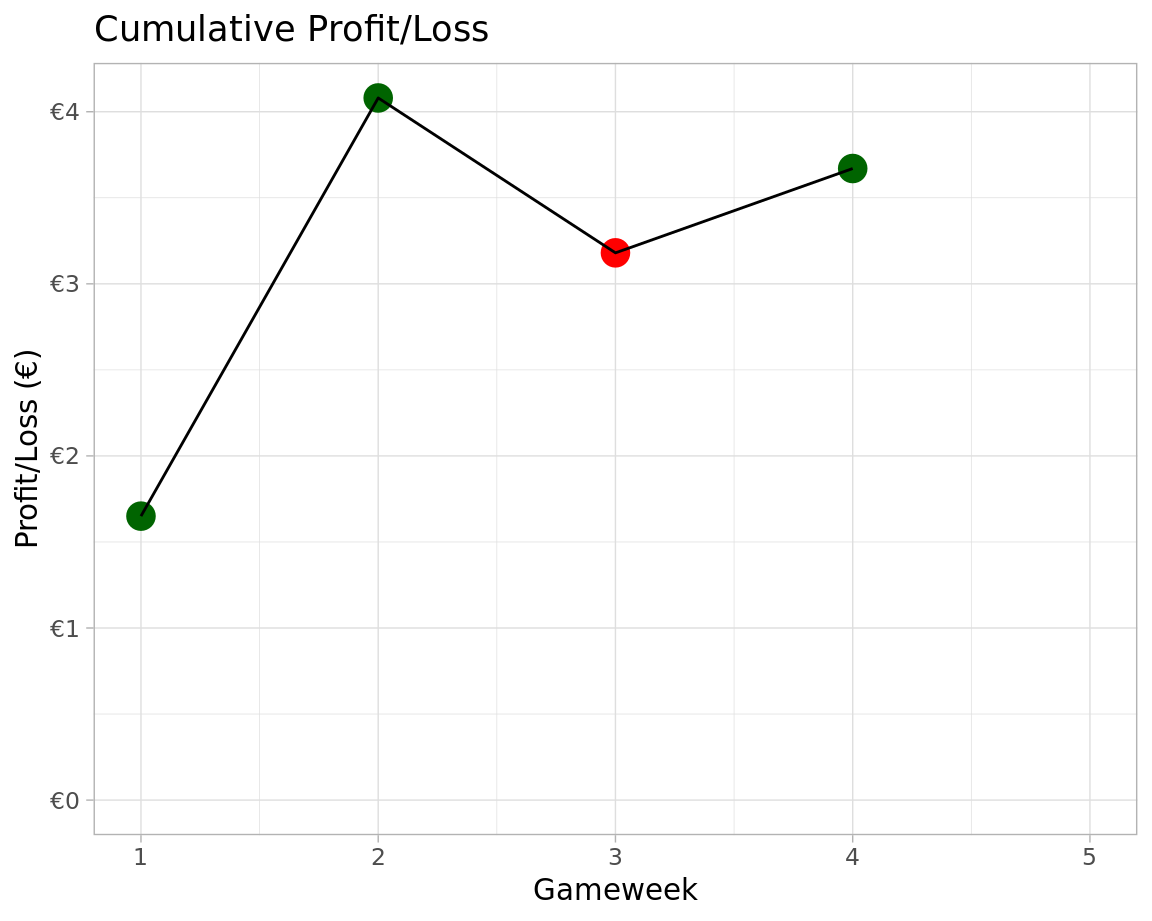
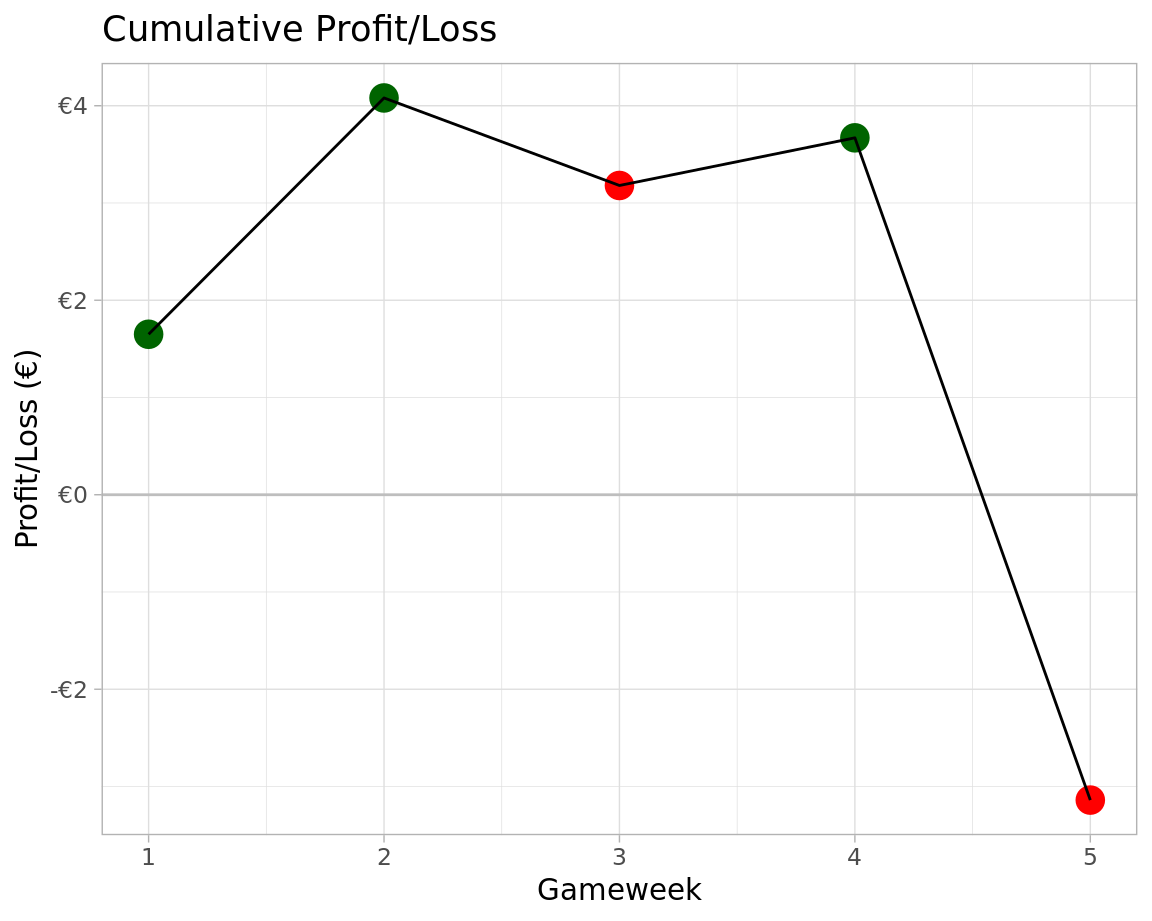
daily update

diff --git a/docs/index.html b/docs/index.html
@@ -2712,7 +2712,7 @@ window.FlexDashboardComponents.push({
 <div class="knitr-options" data-fig-width="576" data-fig-height="460">
 
 </div>
-<span class="value-output" data-icon="fas fa-minus" data-color="red">€46.00</span>
+<span class="value-output" data-icon="fas fa-minus" data-color="red">€48.00</span>
 </div>
 <div id="return" class="section level3">
 <h3>Return</h3>
@@ -2726,14 +2726,14 @@ window.FlexDashboardComponents.push({
 <div class="knitr-options" data-fig-width="576" data-fig-height="460">
 
 </div>
-<span class="value-output" data-icon="fas fa-money-bill-wave" data-color="red">€-1.14</span>
+<span class="value-output" data-icon="fas fa-money-bill-wave" data-color="red">€-3.14</span>
 </div>
 <div id="roi" class="section level3">
 <h3>ROI</h3>
 <div class="knitr-options" data-fig-width="576" data-fig-height="460">
 
 </div>
-<span class="value-output" data-icon="fas fa-percent" data-color="red">-2.48%</span>
+<span class="value-output" data-icon="fas fa-percent" data-color="red">-6.54%</span>
 </div>
 </div>
 <div id="row-1" class="section level2">
@@ -2748,7 +2748,7 @@ window.FlexDashboardComponents.push({
   font-family: -apple-system, BlinkMacSystemFont, 'Segoe UI', Roboto, Oxygen, Ubuntu, Cantarell, 'Helvetica Neue', 'Fira Sans', 'Droid Sans', Arial, sans-serif;
 }
 
-#fzyvexjqqn .gt_table {
+#smfpfuzcsr .gt_table {
   display: table;
   border-collapse: collapse;
   margin-left: auto;
@@ -2773,7 +2773,7 @@ window.FlexDashboardComponents.push({
   border-left-color: #D3D3D3;
 }
 
-#fzyvexjqqn .gt_heading {
+#smfpfuzcsr .gt_heading {
   background-color: #FFFFFF;
   text-align: center;
   border-bottom-color: #FFFFFF;
@@ -2785,7 +2785,7 @@ window.FlexDashboardComponents.push({
   border-right-color: #D3D3D3;
 }
 
-#fzyvexjqqn .gt_title {
+#smfpfuzcsr .gt_title {
   color: #333333;
   font-size: 125%;
   font-weight: initial;
@@ -2795,7 +2795,7 @@ window.FlexDashboardComponents.push({
   border-bottom-width: 0;
 }
 
-#fzyvexjqqn .gt_subtitle {
+#smfpfuzcsr .gt_subtitle {
   color: #333333;
   font-size: 85%;
   font-weight: initial;
@@ -2805,13 +2805,13 @@ window.FlexDashboardComponents.push({
   border-top-width: 0;
 }
 
-#fzyvexjqqn .gt_bottom_border {
+#smfpfuzcsr .gt_bottom_border {
   border-bottom-style: solid;
   border-bottom-width: 2px;
   border-bottom-color: #D3D3D3;
 }
 
-#fzyvexjqqn .gt_col_headings {
+#smfpfuzcsr .gt_col_headings {
   border-top-style: solid;
   border-top-width: 2px;
   border-top-color: #D3D3D3;
@@ -2826,7 +2826,7 @@ window.FlexDashboardComponents.push({
   border-right-color: #D3D3D3;
 }
 
-#fzyvexjqqn .gt_col_heading {
+#smfpfuzcsr .gt_col_heading {
   color: #333333;
   background-color: #FFFFFF;
   font-size: 100%;
@@ -2846,7 +2846,7 @@ window.FlexDashboardComponents.push({
   overflow-x: hidden;
 }
 
-#fzyvexjqqn .gt_column_spanner_outer {
+#smfpfuzcsr .gt_column_spanner_outer {
   color: #333333;
   background-color: #FFFFFF;
   font-size: 100%;
@@ -2858,15 +2858,15 @@ window.FlexDashboardComponents.push({
   padding-right: 4px;
 }
 
-#fzyvexjqqn .gt_column_spanner_outer:first-child {
+#smfpfuzcsr .gt_column_spanner_outer:first-child {
   padding-left: 0;
 }
 
-#fzyvexjqqn .gt_column_spanner_outer:last-child {
+#smfpfuzcsr .gt_column_spanner_outer:last-child {
   padding-right: 0;
 }
 
-#fzyvexjqqn .gt_column_spanner {
+#smfpfuzcsr .gt_column_spanner {
   border-bottom-style: solid;
   border-bottom-width: 2px;
   border-bottom-color: #D3D3D3;
@@ -2878,7 +2878,7 @@ window.FlexDashboardComponents.push({
   width: 100%;
 }
 
-#fzyvexjqqn .gt_group_heading {
+#smfpfuzcsr .gt_group_heading {
   padding: 8px;
   color: #333333;
   background-color: #FFFFFF;
@@ -2900,7 +2900,7 @@ window.FlexDashboardComponents.push({
   vertical-align: middle;
 }
 
-#fzyvexjqqn .gt_empty_group_heading {
+#smfpfuzcsr .gt_empty_group_heading {
   padding: 0.5px;
   color: #333333;
   background-color: #FFFFFF;
@@ -2915,15 +2915,15 @@ window.FlexDashboardComponents.push({
   vertical-align: middle;
 }
 
-#fzyvexjqqn .gt_from_md > :first-child {
+#smfpfuzcsr .gt_from_md > :first-child {
   margin-top: 0;
 }
 
-#fzyvexjqqn .gt_from_md > :last-child {
+#smfpfuzcsr .gt_from_md > :last-child {
   margin-bottom: 0;
 }
 
-#fzyvexjqqn .gt_row {
+#smfpfuzcsr .gt_row {
   padding-top: 8px;
   padding-bottom: 8px;
   padding-left: 5px;
@@ -2942,7 +2942,7 @@ window.FlexDashboardComponents.push({
   overflow-x: hidden;
 }
 
-#fzyvexjqqn .gt_stub {
+#smfpfuzcsr .gt_stub {
   color: #333333;
   background-color: #FFFFFF;
   font-size: 100%;
@@ -2954,7 +2954,7 @@ window.FlexDashboardComponents.push({
   padding-left: 12px;
 }
 
-#fzyvexjqqn .gt_summary_row {
+#smfpfuzcsr .gt_summary_row {
   color: #333333;
   background-color: #FFFFFF;
   text-transform: inherit;
@@ -2964,7 +2964,7 @@ window.FlexDashboardComponents.push({
   padding-right: 5px;
 }
 
-#fzyvexjqqn .gt_first_summary_row {
+#smfpfuzcsr .gt_first_summary_row {
   padding-top: 8px;
   padding-bottom: 8px;
   padding-left: 5px;
@@ -2974,7 +2974,7 @@ window.FlexDashboardComponents.push({
   border-top-color: #D3D3D3;
 }
 
-#fzyvexjqqn .gt_grand_summary_row {
+#smfpfuzcsr .gt_grand_summary_row {
   color: #333333;
   background-color: #FFFFFF;
   text-transform: inherit;
@@ -2984,7 +2984,7 @@ window.FlexDashboardComponents.push({
   padding-right: 5px;
 }
 
-#fzyvexjqqn .gt_first_grand_summary_row {
+#smfpfuzcsr .gt_first_grand_summary_row {
   padding-top: 8px;
   padding-bottom: 8px;
   padding-left: 5px;
@@ -2994,11 +2994,11 @@ window.FlexDashboardComponents.push({
   border-top-color: #D3D3D3;
 }
 
-#fzyvexjqqn .gt_striped {
+#smfpfuzcsr .gt_striped {
   background-color: rgba(128, 128, 128, 0.05);
 }
 
-#fzyvexjqqn .gt_table_body {
+#smfpfuzcsr .gt_table_body {
   border-top-style: solid;
   border-top-width: 2px;
   border-top-color: #D3D3D3;
@@ -3007,7 +3007,7 @@ window.FlexDashboardComponents.push({
   border-bottom-color: #D3D3D3;
 }
 
-#fzyvexjqqn .gt_footnotes {
+#smfpfuzcsr .gt_footnotes {
   color: #333333;
   background-color: #FFFFFF;
   border-bottom-style: none;
@@ -3021,13 +3021,13 @@ window.FlexDashboardComponents.push({
   border-right-color: #D3D3D3;
 }
 
-#fzyvexjqqn .gt_footnote {
+#smfpfuzcsr .gt_footnote {
   margin: 0px;
   font-size: 90%;
   padding: 4px;
 }
 
-#fzyvexjqqn .gt_sourcenotes {
+#smfpfuzcsr .gt_sourcenotes {
   color: #333333;
   background-color: #FFFFFF;
   border-bottom-style: none;
@@ -3041,46 +3041,46 @@ window.FlexDashboardComponents.push({
   border-right-color: #D3D3D3;
 }
 
-#fzyvexjqqn .gt_sourcenote {
+#smfpfuzcsr .gt_sourcenote {
   font-size: 10px;
   padding: 4px;
 }
 
-#fzyvexjqqn .gt_left {
+#smfpfuzcsr .gt_left {
   text-align: left;
 }
 
-#fzyvexjqqn .gt_center {
+#smfpfuzcsr .gt_center {
   text-align: center;
 }
 
-#fzyvexjqqn .gt_right {
+#smfpfuzcsr .gt_right {
   text-align: right;
   font-variant-numeric: tabular-nums;
 }
 
-#fzyvexjqqn .gt_font_normal {
+#smfpfuzcsr .gt_font_normal {
   font-weight: normal;
 }
 
-#fzyvexjqqn .gt_font_bold {
+#smfpfuzcsr .gt_font_bold {
   font-weight: bold;
 }
 
-#fzyvexjqqn .gt_font_italic {
+#smfpfuzcsr .gt_font_italic {
   font-style: italic;
 }
 
-#fzyvexjqqn .gt_super {
+#smfpfuzcsr .gt_super {
   font-size: 65%;
 }
 
-#fzyvexjqqn .gt_footnote_marks {
+#smfpfuzcsr .gt_footnote_marks {
   font-style: italic;
   font-size: 65%;
 }
 </style>
-<div id="fzyvexjqqn" style="overflow-x:auto;overflow-y:auto;width:auto;height:auto;"><table class="gt_table">
+<div id="smfpfuzcsr" style="overflow-x:auto;overflow-y:auto;width:auto;height:auto;"><table class="gt_table">
   <thead class="gt_header">
     <tr>
       <th colspan="7" class="gt_heading gt_title gt_font_normal" style>Predictions</th>
@@ -3110,9 +3110,9 @@ window.FlexDashboardComponents.push({
       <td class="gt_row gt_left">2020-10-23</td>
       <td class="gt_row gt_left">Aston Villa</td>
       <td class="gt_row gt_left">Leeds</td>
-      <td class="gt_row gt_center" style="background-color: #6EF664; color: #000000;">48.32&percnt;</td>
-      <td class="gt_row gt_center" style="background-color: #B1D77B; color: #000000;">28.43&percnt;</td>
-      <td class="gt_row gt_center" style="background-color: #CABF65; color: #000000;">23.25&percnt;</td>
+      <td class="gt_row gt_center" style="background-color: #6DF663; color: #000000;">48.86&percnt;</td>
+      <td class="gt_row gt_center" style="background-color: #BDCD72; color: #000000;">26.23&percnt;</td>
+      <td class="gt_row gt_center" style="background-color: #C3C76C; color: #000000;">24.90&percnt;</td>
       <td class="gt_row gt_center">Home</td>
     </tr>
     <tr>
@@ -3173,33 +3173,33 @@ window.FlexDashboardComponents.push({
       <td class="gt_row gt_left">2020-10-25</td>
       <td class="gt_row gt_left">Wolves</td>
       <td class="gt_row gt_left">Newcastle</td>
-      <td class="gt_row gt_center" style="background-color: #4AFB3F; color: #000000;">58.72&percnt;</td>
-      <td class="gt_row gt_center" style="background-color: #C2C76D; color: #000000;">25.04&percnt;</td>
-      <td class="gt_row gt_center" style="background-color: #E19B49; color: #000000;">16.25&percnt;</td>
+      <td class="gt_row gt_center" style="background-color: #44FC39; color: #000000;">59.97&percnt;</td>
+      <td class="gt_row gt_center" style="background-color: #C8C168; color: #000000;">23.79&percnt;</td>
+      <td class="gt_row gt_center" style="background-color: #E19B49; color: #000000;">16.24&percnt;</td>
       <td class="gt_row gt_center">Home</td>
     </tr>
     <tr>
       <td class="gt_row gt_left">2020-10-27</td>
       <td class="gt_row gt_left">Brighton</td>
       <td class="gt_row gt_left">West Brom</td>
-      <td class="gt_row gt_center" style="background-color: #43FC38; color: #000000;">60.13&percnt;</td>
-      <td class="gt_row gt_center" style="background-color: #CBBD64; color: #000000;">22.85&percnt;</td>
-      <td class="gt_row gt_center" style="background-color: #DF9F4C; color: #000000;">17.02&percnt;</td>
+      <td class="gt_row gt_center" style="background-color: #43FC37; color: #000000;">60.24&percnt;</td>
+      <td class="gt_row gt_center" style="background-color: #D1B55D; color: #000000;">21.30&percnt;</td>
+      <td class="gt_row gt_center" style="background-color: #DBA752; color: #000000;">18.46&percnt;</td>
       <td class="gt_row gt_center">Home</td>
     </tr>
     <tr>
       <td class="gt_row gt_left">2020-10-27</td>
       <td class="gt_row gt_left">Burnley</td>
       <td class="gt_row gt_left">Tottenham</td>
-      <td class="gt_row gt_center" style="background-color: #9EE688; color: #000000;">31.52&percnt;</td>
-      <td class="gt_row gt_center" style="background-color: #B5D478; color: #000000;">27.79&percnt;</td>
-      <td class="gt_row gt_center" style="background-color: #81F27B; color: #000000;">40.69&percnt;</td>
+      <td class="gt_row gt_center" style="background-color: #ADDB7E; color: #000000;">29.19&percnt;</td>
+      <td class="gt_row gt_center" style="background-color: #BFCB70; color: #000000;">25.85&percnt;</td>
+      <td class="gt_row gt_center" style="background-color: #77F46F; color: #000000;">44.96&percnt;</td>
       <td class="gt_row gt_center">Away</td>
     </tr>
   </tbody>
   <tfoot class="gt_sourcenotes">
     <tr>
-      <td class="gt_sourcenote" colspan="7">Date ran: 2020-10-21</td>
+      <td class="gt_sourcenote" colspan="7">Date ran: 2020-10-22</td>
     </tr>
   </tfoot>
   
@@ -3241,8 +3241,8 @@ window.FlexDashboardComponents.push({
 <div class="knitr-options" data-fig-width="576" data-fig-height="460">
 
 </div>
-<div id="htmlwidget-f6967d69d58f25463f52" style="width:100%;height:auto;" class="datatables html-widget"></div>
-<script type="application/json" data-for="htmlwidget-f6967d69d58f25463f52">{"x":{"filter":"none","fillContainer":true,"data":[["1","2","3","4","5","6","7","8","9","10","11","12","13","14","15","16","17","18","19","20","21","22","23","24","25","26","27","28","29","30","31","32","33","34","35","36","37","38","39","40","41","42","43","44","45","46"],[1,1,1,1,1,1,1,1,2,2,2,2,2,2,2,2,2,2,3,3,3,3,3,3,3,3,3,3,4,4,4,4,4,4,4,4,4,4,5,5,5,5,5,5,5,5],["2020-09-12","2020-09-12","2020-09-12","2020-09-12","2020-09-13","2020-09-13","2020-09-14","2020-09-14","2020-09-19","2020-09-19","2020-09-19","2020-09-19","2020-09-20","2020-09-20","2020-09-20","2020-09-20","2020-09-21","2020-09-21","2020-09-26","2020-09-26","2020-09-26","2020-09-26","2020-09-27","2020-09-27","2020-09-27","2020-09-27","2020-09-28","2020-09-28","2020-10-03","2020-10-03","2020-10-03","2020-10-03","2020-10-04","2020-10-04","2020-10-04","2020-10-04","2020-10-04","2020-10-04","2020-10-17","2020-10-17","2020-10-17","2020-10-17","2020-10-18","2020-10-18","2020-10-18","2020-10-18"],["12:30:00","15:00:00","17:30:00","20:00:00","14:00:00","16:30:00","20:15:00","18:00:00","12:30:00","15:00:00","17:30:00","20:00:00","12:00:00","14:00:00","16:30:00","19:00:00","18:00:00","20:15:00","12:30:00","15:00:00","17:30:00","20:00:00","12:00:00","14:00:00","16:30:00","19:00:00","17:45:00","20:00:00","12:30:00","15:00:00","17:30:00","20:00:00","12:00:00","12:00:00","14:00:00","14:00:00","16:30:00","19:15:00","12:30:00","15:00:00","17:30:00","20:00:00","12:00:00","14:00:00","16:30:00","19:15:00"],["Fulham","Crystal Palace","Liverpool","West Ham","West Brom","Tottenham","Brighton","Sheffield United","Everton","Leeds","Man United","Arsenal","Southampton","Newcastle","Chelsea","Leicester","Aston Villa","Wolves","Brighton","Crystal Palace","West Brom","Burnley","Sheffield United","Tottenham","Man City","West Ham","Fulham","Liverpool","Chelsea","Everton","Leeds","Newcastle","Leicester","Southampton","Arsenal","Wolves","Man United","Aston Villa","Everton","Chelsea","Man City","Newcastle","Sheffield United","Crystal Palace","Tottenham","Leicester"],["Arsenal","Southampton","Leeds","Newcastle","Leicester","Everton","Chelsea","Wolves","West Brom","Fulham","Crystal Palace","West Ham","Tottenham","Brighton","Liverpool","Burnley","Sheffield United","Man City","Man United","Everton","Chelsea","Southampton","Leeds","Newcastle","Leicester","Wolves","Aston Villa","Arsenal","Crystal Palace","Brighton","Man City","Burnley","West Ham","West Brom","Sheffield United","Fulham","Tottenham","Liverpool","Liverpool","Southampton","Arsenal","Man United","Fulham","Brighton","West Ham","Aston Villa"],[0,1,4,0,0,0,1,0,5,4,1,2,2,0,0,4,1,1,2,1,3,0,0,1,2,4,0,3,4,4,1,3,0,2,2,1,1,7,2,3,1,1,1,1,3,0],[3,0,3,2,3,1,3,2,2,3,3,1,5,3,2,2,0,3,3,2,3,1,1,1,5,0,3,1,0,2,1,1,3,0,1,0,6,2,2,3,0,4,1,1,3,1],[5.94,3.18,1.3,2.15,3.87,1.9,5.12,3.36,1.54,1.64,1.32,1.53,3.1,2.68,3.15,1.63,2.71,6.11,4.83,3.69,8.24,3.3,2.72,1.47,1.29,3.74,2.92,1.49,1.43,1.76,7.45,2.47,1.68,1.76,1.56,1.51,1.92,9.35,3.91,1.53,1.49,4.78,2.11,2.68,1.62,1.89],[4.34,3.22,5.96,3.48,3.57,3.55,4.13,3,4.25,3.97,5.57,4.51,3.35,3.15,3.72,3.98,3.19,4.35,3.75,3.32,5.02,3.25,3.37,4.5,5.93,3.38,3.26,4.68,4.77,3.73,5.34,3.15,4.12,3.86,4.09,4.07,3.71,5.41,4.08,4.56,4.85,4.08,3.32,3.25,4.19,3.82],[1.55,2.39,9.68,3.42,1.97,4.2,1.65,2.41,6.3,5.5,9.56,5.91,2.37,2.82,2.18,5.64,2.75,1.54,1.75,2.12,1.38,2.31,2.63,6.95,9.68,2.07,2.52,6.3,7.39,4.79,1.38,3.08,4.86,4.58,6.25,7.19,3.97,1.33,1.85,5.92,6.09,1.7,3.74,2.76,5.34,3.97],["L","W","W","L","L","L","L","L","W","W","L","W","L","L","L","W","W","L","L","L","D","L","L","D","L","W","L","W","W","W","D","W","L","W","W","W","L","W","D","D","W","L","D","D","D","L"],["2020-09-10","2020-09-10","2020-09-10","2020-09-10","2020-09-10","2020-09-10","2020-09-10","2020-09-10","2020-09-15","2020-09-15","2020-09-15","2020-09-15","2020-09-15","2020-09-15","2020-09-15","2020-09-15","2020-09-15","2020-09-15","2020-09-23","2020-09-23","2020-09-23","2020-09-23","2020-09-23","2020-09-23","2020-09-23","2020-09-23","2020-09-23","2020-09-23","2020-10-03","2020-10-03","2020-10-03","2020-10-03","2020-10-04","2020-10-04","2020-10-04","2020-10-04","2020-10-04","2020-10-04","2020-10-17","2020-10-17","2020-10-17","2020-10-17","2020-10-18","2020-10-18","2020-10-18","2020-10-18"],[0.326865246,0.377025944,0.586321925,0.440676095,0.335558467,0.484457295,0.321832102,0.387335841,0.56834799,0.45600293,0.469761013,0.537173849,0.317688641,0.392894588,0.265682975,0.496671014,0.330105667,0.332535727,0.326952658084199,0.311463268514612,0.273627527560801,0.355294105837369,0.437443071806396,0.532160132995659,0.479707327247348,0.351332568818335,0.37906296982321,0.611196207007876,0.526000796867655,0.511462114989317,0.262901758671308,0.38329422931363,0.560547892703463,0.601019327700624,0.532563494288092,0.506616878016134,0.363046493590689,0.183434597838152,0.260452006883681,0.557784632624761,0.579424617122047,0.351710091428944,0.486428010392038,0.344577683259686,0.562602015704454,0.482400879719672],[0.299196686,0.327950858,0.259043543,0.303935957,0.267852609,0.318702975,0.274286369,0.299663726,0.245813094,0.281998402,0.331701955,0.265537696,0.281726611,0.346720128,0.285105118,0.314923119,0.345855148,0.275327728,0.271298866386896,0.331408992481159,0.239257758594954,0.330036716676724,0.292733034275733,0.272504210718762,0.31022248933418,0.337010421385256,0.291976118539781,0.199572339009251,0.303677581480901,0.265504098008588,0.217291709554888,0.289329197505792,0.253457991875061,0.235980709551396,0.280890541381853,0.268711784665371,0.321127429313033,0.239101794460736,0.261379945948762,0.247525178889113,0.23954235870574,0.2760337078497,0.281907597161637,0.309843808772541,0.258569793875715,0.296178095649272],[0.373938069,0.295023198,0.154634532,0.255387948,0.396588924,0.196839729,0.403881529,0.313000432,0.185838917,0.261998667,0.198537032,0.197288454,0.400584748,0.260385284,0.449211907,0.188405867,0.324039185,0.392136545,0.401748475528905,0.35712773900423,0.487114713844245,0.314669177485908,0.269823893917872,0.195335656285579,0.210070183418473,0.311657009796409,0.328960911637009,0.189231453982873,0.170321621651445,0.223033787002095,0.519806531773804,0.327376573180578,0.185994115421477,0.16299996274798,0.186545964330056,0.224671337318496,0.315826077096278,0.577463607701113,0.478168047167557,0.194690188486126,0.181033024172213,0.372256200721355,0.231664392446325,0.345578507967775,0.178828190419831,0.221421024631056],["L","W","W","W","L","W","L","W","W","W","W","W","L","W","L","W","D","L","L","L","L","W","W","W","W","W","W","W","W","W","L","W","W","W","W","W","W","L","L","W","W","L","W","L","W","W"],[true,true,true,false,true,false,true,false,true,true,false,true,true,false,true,true,false,true,true,true,false,false,false,false,false,true,false,true,true,true,false,true,false,true,true,true,false,false,false,false,true,true,false,false,false,false],[1.55,3.18,1.3,2.15,1.97,1.9,1.65,3.36,1.54,1.64,1.32,1.53,2.37,2.68,2.18,1.63,3.19,1.54,1.75,2.12,1.38,3.3,2.72,1.47,1.29,3.74,2.92,1.49,1.43,1.76,1.38,2.47,1.68,1.76,1.56,1.51,1.92,1.33,1.85,1.53,1.49,1.7,2.11,2.76,1.62,1.89],[1,1,1,1,1,1,1,1,1,1,1,1,1,1,1,1,1,1,1,1,1,1,1,1,1,1,1,1,1,1,1,1,1,1,1,1,1,1,1,1,1,1,1,1,1,1],[1.55,3.18,1.3,0,1.97,0,1.65,0,1.54,1.64,0,1.53,2.37,0,2.18,1.63,0,1.54,1.75,2.12,0,0,0,0,0,3.74,0,1.49,1.43,1.76,0,2.47,0,1.76,1.56,1.51,0,0,0,0,1.49,1.7,0,0,0,0]],"container":"<table class=\"display fill-container\">\n  <thead>\n    <tr>\n      <th> <\/th>\n      <th>gameweek<\/th>\n      <th>date<\/th>\n      <th>time<\/th>\n      <th>home_team<\/th>\n      <th>away_team<\/th>\n      <th>fthg<\/th>\n      <th>ftag<\/th>\n      <th>avg_h<\/th>\n      <th>avg_d<\/th>\n      <th>avg_a<\/th>\n      <th>result<\/th>\n      <th>date_ran<\/th>\n      <th>pred_w<\/th>\n      <th>pred_d<\/th>\n      <th>pred_l<\/th>\n      <th>pred_class<\/th>\n      <th>accurate<\/th>\n      <th>selected_odds<\/th>\n      <th>outlay<\/th>\n      <th>return<\/th>\n    <\/tr>\n  <\/thead>\n<\/table>","options":{"columnDefs":[{"className":"dt-right","targets":[1,6,7,8,9,10,13,14,15,18,19,20]},{"orderable":false,"targets":0}],"order":[],"autoWidth":false,"orderClasses":false}},"evals":[],"jsHooks":[]}</script>
+<div id="htmlwidget-0cac629a1a975f6cec29" style="width:100%;height:auto;" class="datatables html-widget"></div>
+<script type="application/json" data-for="htmlwidget-0cac629a1a975f6cec29">{"x":{"filter":"none","fillContainer":true,"data":[["1","2","3","4","5","6","7","8","9","10","11","12","13","14","15","16","17","18","19","20","21","22","23","24","25","26","27","28","29","30","31","32","33","34","35","36","37","38","39","40","41","42","43","44","45","46","47","48"],[1,1,1,1,1,1,1,1,2,2,2,2,2,2,2,2,2,2,3,3,3,3,3,3,3,3,3,3,4,4,4,4,4,4,4,4,4,4,5,5,5,5,5,5,5,5,5,5],["2020-09-12","2020-09-12","2020-09-12","2020-09-12","2020-09-13","2020-09-13","2020-09-14","2020-09-14","2020-09-19","2020-09-19","2020-09-19","2020-09-19","2020-09-20","2020-09-20","2020-09-20","2020-09-20","2020-09-21","2020-09-21","2020-09-26","2020-09-26","2020-09-26","2020-09-26","2020-09-27","2020-09-27","2020-09-27","2020-09-27","2020-09-28","2020-09-28","2020-10-03","2020-10-03","2020-10-03","2020-10-03","2020-10-04","2020-10-04","2020-10-04","2020-10-04","2020-10-04","2020-10-04","2020-10-17","2020-10-17","2020-10-17","2020-10-17","2020-10-18","2020-10-18","2020-10-18","2020-10-18","2020-10-19","2020-10-19"],["12:30:00","15:00:00","17:30:00","20:00:00","14:00:00","16:30:00","20:15:00","18:00:00","12:30:00","15:00:00","17:30:00","20:00:00","12:00:00","14:00:00","16:30:00","19:00:00","18:00:00","20:15:00","12:30:00","15:00:00","17:30:00","20:00:00","12:00:00","14:00:00","16:30:00","19:00:00","17:45:00","20:00:00","12:30:00","15:00:00","17:30:00","20:00:00","12:00:00","12:00:00","14:00:00","14:00:00","16:30:00","19:15:00","12:30:00","15:00:00","17:30:00","20:00:00","12:00:00","14:00:00","16:30:00","19:15:00","17:30:00","20:00:00"],["Fulham","Crystal Palace","Liverpool","West Ham","West Brom","Tottenham","Brighton","Sheffield United","Everton","Leeds","Man United","Arsenal","Southampton","Newcastle","Chelsea","Leicester","Aston Villa","Wolves","Brighton","Crystal Palace","West Brom","Burnley","Sheffield United","Tottenham","Man City","West Ham","Fulham","Liverpool","Chelsea","Everton","Leeds","Newcastle","Leicester","Southampton","Arsenal","Wolves","Man United","Aston Villa","Everton","Chelsea","Man City","Newcastle","Sheffield United","Crystal Palace","Tottenham","Leicester","West Brom","Leeds"],["Arsenal","Southampton","Leeds","Newcastle","Leicester","Everton","Chelsea","Wolves","West Brom","Fulham","Crystal Palace","West Ham","Tottenham","Brighton","Liverpool","Burnley","Sheffield United","Man City","Man United","Everton","Chelsea","Southampton","Leeds","Newcastle","Leicester","Wolves","Aston Villa","Arsenal","Crystal Palace","Brighton","Man City","Burnley","West Ham","West Brom","Sheffield United","Fulham","Tottenham","Liverpool","Liverpool","Southampton","Arsenal","Man United","Fulham","Brighton","West Ham","Aston Villa","Burnley","Wolves"],[0,1,4,0,0,0,1,0,5,4,1,2,2,0,0,4,1,1,2,1,3,0,0,1,2,4,0,3,4,4,1,3,0,2,2,1,1,7,2,3,1,1,1,1,3,0,0,0],[3,0,3,2,3,1,3,2,2,3,3,1,5,3,2,2,0,3,3,2,3,1,1,1,5,0,3,1,0,2,1,1,3,0,1,0,6,2,2,3,0,4,1,1,3,1,0,1],[5.94,3.18,1.3,2.15,3.87,1.9,5.12,3.36,1.54,1.64,1.32,1.53,3.1,2.68,3.15,1.63,2.71,6.11,4.83,3.69,8.24,3.3,2.72,1.47,1.29,3.74,2.92,1.49,1.43,1.76,7.45,2.47,1.68,1.76,1.56,1.51,1.92,9.35,3.91,1.53,1.49,4.78,2.11,2.68,1.62,1.89,2.49,2.5],[4.34,3.22,5.96,3.48,3.57,3.55,4.13,3,4.25,3.97,5.57,4.51,3.35,3.15,3.72,3.98,3.19,4.35,3.75,3.32,5.02,3.25,3.37,4.5,5.93,3.38,3.26,4.68,4.77,3.73,5.34,3.15,4.12,3.86,4.09,4.07,3.71,5.41,4.08,4.56,4.85,4.08,3.32,3.25,4.19,3.82,3.3,3.26],[1.55,2.39,9.68,3.42,1.97,4.2,1.65,2.41,6.3,5.5,9.56,5.91,2.37,2.82,2.18,5.64,2.75,1.54,1.75,2.12,1.38,2.31,2.63,6.95,9.68,2.07,2.52,6.3,7.39,4.79,1.38,3.08,4.86,4.58,6.25,7.19,3.97,1.33,1.85,5.92,6.09,1.7,3.74,2.76,5.34,3.97,2.97,2.97],["L","W","W","L","L","L","L","L","W","W","L","W","L","L","L","W","W","L","L","L","D","L","L","D","L","W","L","W","W","W","D","W","L","W","W","W","L","W","D","D","W","L","D","D","D","L","D","L"],["2020-09-10","2020-09-10","2020-09-10","2020-09-10","2020-09-10","2020-09-10","2020-09-10","2020-09-10","2020-09-15","2020-09-15","2020-09-15","2020-09-15","2020-09-15","2020-09-15","2020-09-15","2020-09-15","2020-09-15","2020-09-15","2020-09-23","2020-09-23","2020-09-23","2020-09-23","2020-09-23","2020-09-23","2020-09-23","2020-09-23","2020-09-23","2020-09-23","2020-10-03","2020-10-03","2020-10-03","2020-10-03","2020-10-04","2020-10-04","2020-10-04","2020-10-04","2020-10-04","2020-10-04","2020-10-17","2020-10-17","2020-10-17","2020-10-17","2020-10-18","2020-10-18","2020-10-18","2020-10-18","2020-10-19","2020-10-19"],[0.326865246,0.377025944,0.586321925,0.440676095,0.335558467,0.484457295,0.321832102,0.387335841,0.56834799,0.45600293,0.469761013,0.537173849,0.317688641,0.392894588,0.265682975,0.496671014,0.330105667,0.332535727,0.326952658084199,0.311463268514612,0.273627527560801,0.355294105837369,0.437443071806396,0.532160132995659,0.479707327247348,0.351332568818335,0.37906296982321,0.611196207007876,0.526000796867655,0.511462114989317,0.262901758671308,0.38329422931363,0.560547892703463,0.601019327700624,0.532563494288092,0.506616878016134,0.363046493590689,0.183434597838152,0.260452006883681,0.557784632624761,0.579424617122047,0.351710091428944,0.486428010392038,0.344577683259686,0.562602015704454,0.482400879719672,0.358088998593202,0.40636619526778],[0.299196686,0.327950858,0.259043543,0.303935957,0.267852609,0.318702975,0.274286369,0.299663726,0.245813094,0.281998402,0.331701955,0.265537696,0.281726611,0.346720128,0.285105118,0.314923119,0.345855148,0.275327728,0.271298866386896,0.331408992481159,0.239257758594954,0.330036716676724,0.292733034275733,0.272504210718762,0.31022248933418,0.337010421385256,0.291976118539781,0.199572339009251,0.303677581480901,0.265504098008588,0.217291709554888,0.289329197505792,0.253457991875061,0.235980709551396,0.280890541381853,0.268711784665371,0.321127429313033,0.239101794460736,0.261379945948762,0.247525178889113,0.23954235870574,0.2760337078497,0.281907597161637,0.309843808772541,0.258569793875715,0.296178095649272,0.27735631779529,0.298789589467774],[0.373938069,0.295023198,0.154634532,0.255387948,0.396588924,0.196839729,0.403881529,0.313000432,0.185838917,0.261998667,0.198537032,0.197288454,0.400584748,0.260385284,0.449211907,0.188405867,0.324039185,0.392136545,0.401748475528905,0.35712773900423,0.487114713844245,0.314669177485908,0.269823893917872,0.195335656285579,0.210070183418473,0.311657009796409,0.328960911637009,0.189231453982873,0.170321621651445,0.223033787002095,0.519806531773804,0.327376573180578,0.185994115421477,0.16299996274798,0.186545964330056,0.224671337318496,0.315826077096278,0.577463607701113,0.478168047167557,0.194690188486126,0.181033024172213,0.372256200721355,0.231664392446325,0.345578507967775,0.178828190419831,0.221421024631056,0.364554683611508,0.294844215264446],["L","W","W","W","L","W","L","W","W","W","W","W","L","W","L","W","D","L","L","L","L","W","W","W","W","W","W","W","W","W","L","W","W","W","W","W","W","L","L","W","W","L","W","L","W","W","L","W"],[true,true,true,false,true,false,true,false,true,true,false,true,true,false,true,true,false,true,true,true,false,false,false,false,false,true,false,true,true,true,false,true,false,true,true,true,false,false,false,false,true,true,false,false,false,false,false,false],[1.55,3.18,1.3,2.15,1.97,1.9,1.65,3.36,1.54,1.64,1.32,1.53,2.37,2.68,2.18,1.63,3.19,1.54,1.75,2.12,1.38,3.3,2.72,1.47,1.29,3.74,2.92,1.49,1.43,1.76,1.38,2.47,1.68,1.76,1.56,1.51,1.92,1.33,1.85,1.53,1.49,1.7,2.11,2.76,1.62,1.89,2.97,2.5],[1,1,1,1,1,1,1,1,1,1,1,1,1,1,1,1,1,1,1,1,1,1,1,1,1,1,1,1,1,1,1,1,1,1,1,1,1,1,1,1,1,1,1,1,1,1,1,1],[1.55,3.18,1.3,0,1.97,0,1.65,0,1.54,1.64,0,1.53,2.37,0,2.18,1.63,0,1.54,1.75,2.12,0,0,0,0,0,3.74,0,1.49,1.43,1.76,0,2.47,0,1.76,1.56,1.51,0,0,0,0,1.49,1.7,0,0,0,0,0,0]],"container":"<table class=\"display fill-container\">\n  <thead>\n    <tr>\n      <th> <\/th>\n      <th>gameweek<\/th>\n      <th>date<\/th>\n      <th>time<\/th>\n      <th>home_team<\/th>\n      <th>away_team<\/th>\n      <th>fthg<\/th>\n      <th>ftag<\/th>\n      <th>avg_h<\/th>\n      <th>avg_d<\/th>\n      <th>avg_a<\/th>\n      <th>result<\/th>\n      <th>date_ran<\/th>\n      <th>pred_w<\/th>\n      <th>pred_d<\/th>\n      <th>pred_l<\/th>\n      <th>pred_class<\/th>\n      <th>accurate<\/th>\n      <th>selected_odds<\/th>\n      <th>outlay<\/th>\n      <th>return<\/th>\n    <\/tr>\n  <\/thead>\n<\/table>","options":{"columnDefs":[{"className":"dt-right","targets":[1,6,7,8,9,10,13,14,15,18,19,20]},{"orderable":false,"targets":0}],"order":[],"autoWidth":false,"orderClasses":false}},"evals":[],"jsHooks":[]}</script>
 </div>
 </div>
 </div>
